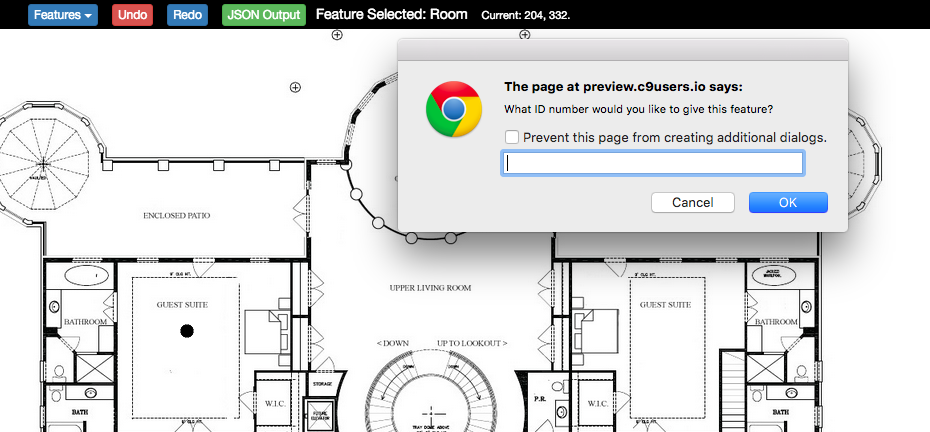
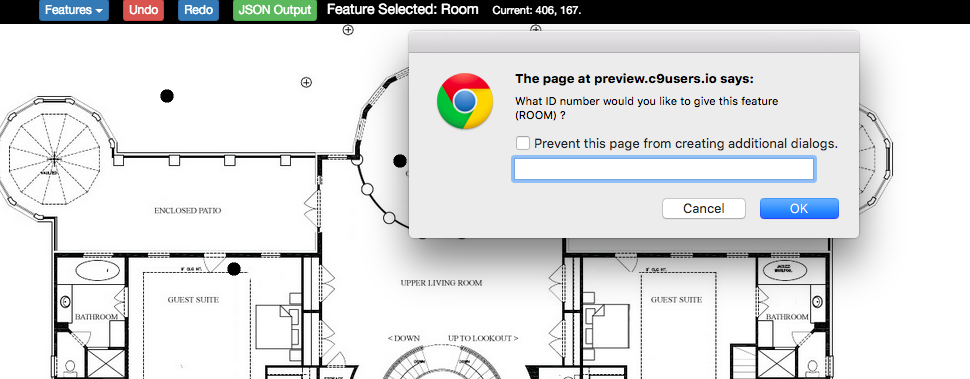
Made prompt more clear

diff --git a/js/mapToData.js b/js/mapToData.js
@@ -248,10 +248,10 @@ function handleCanvasClick() {
 		            } 
                 })
             */
-                var featID = prompt('What ID number would you like to give this feature?');
+                var featID = prompt('What ID number would you like to give this feature (' + (featureSettings.name).toUpperCase() +') ?');
                 var access = featureSettings.accessibility;
                 if (access == null) {
-                 access = prompt('Is this accessible? Please type y or n.');
+                 access = prompt('Is this feature (' + featureSettings.name + ') accessible? Please type y or n.');
                  /*
                     $('#inputAccess').show();
                     //$('#inputAccess').focus();
